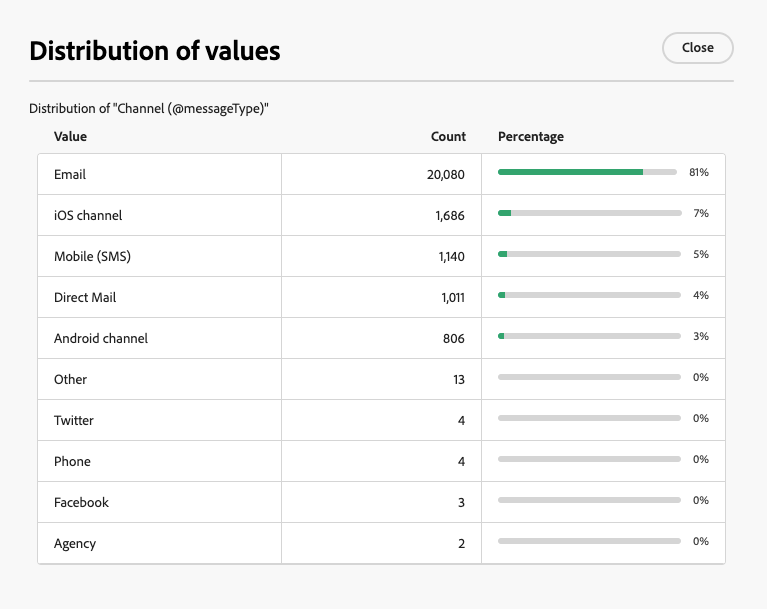
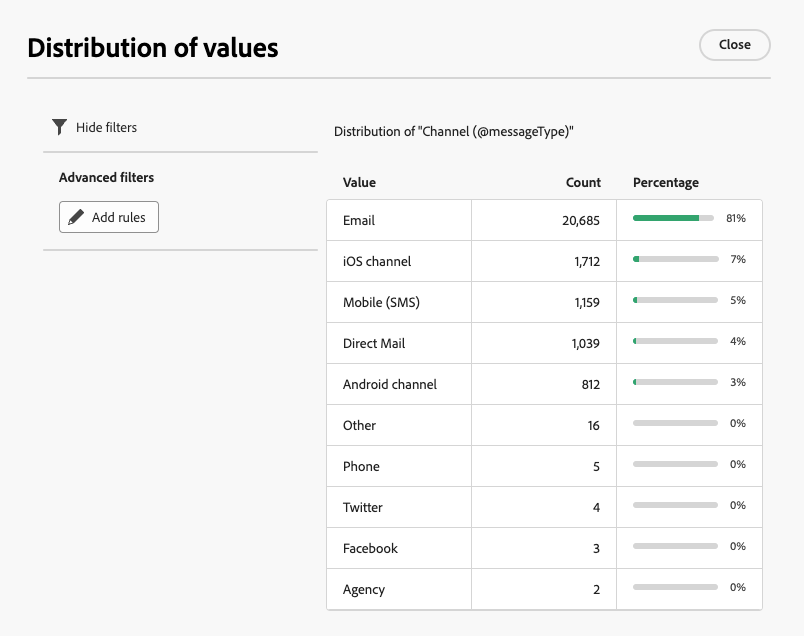
Update

diff --git a/help/v8/query/build-query.md b/help/v8/query/build-query.md
@@ -35,6 +35,7 @@ To access this option, in your query, click the attribute selection button as sh
 >* For fields with many values, only the first twenty values are displayed. In such case, a notification **[!UICONTROL Partial load]** warns you.
 >
 >* The **[!UICONTROL Distribution of values]** option is accessible in every attribute picker.
+>* You can do a research on values by using the **[!Advanced filters]**.
 
 ## Add filtering components {#filtering}
 

diff --git a/help/v8/get-started/work-with-folders.md b/help/v8/get-started/work-with-folders.md
@@ -90,6 +90,8 @@ You will get the percentage of the values in the **[!UICONTROL Channel]** column
 
 ![](assets/values_percentage.png){zoomable="yes"}
 
+You can do a research on values by using the **[!Advanced filters]**. 
+
 >[!NOTE]
 >
 > For columns with many values, only the first twenty values will be displayed. A notification **[!UICONTROL Partial load]** will warn you.
